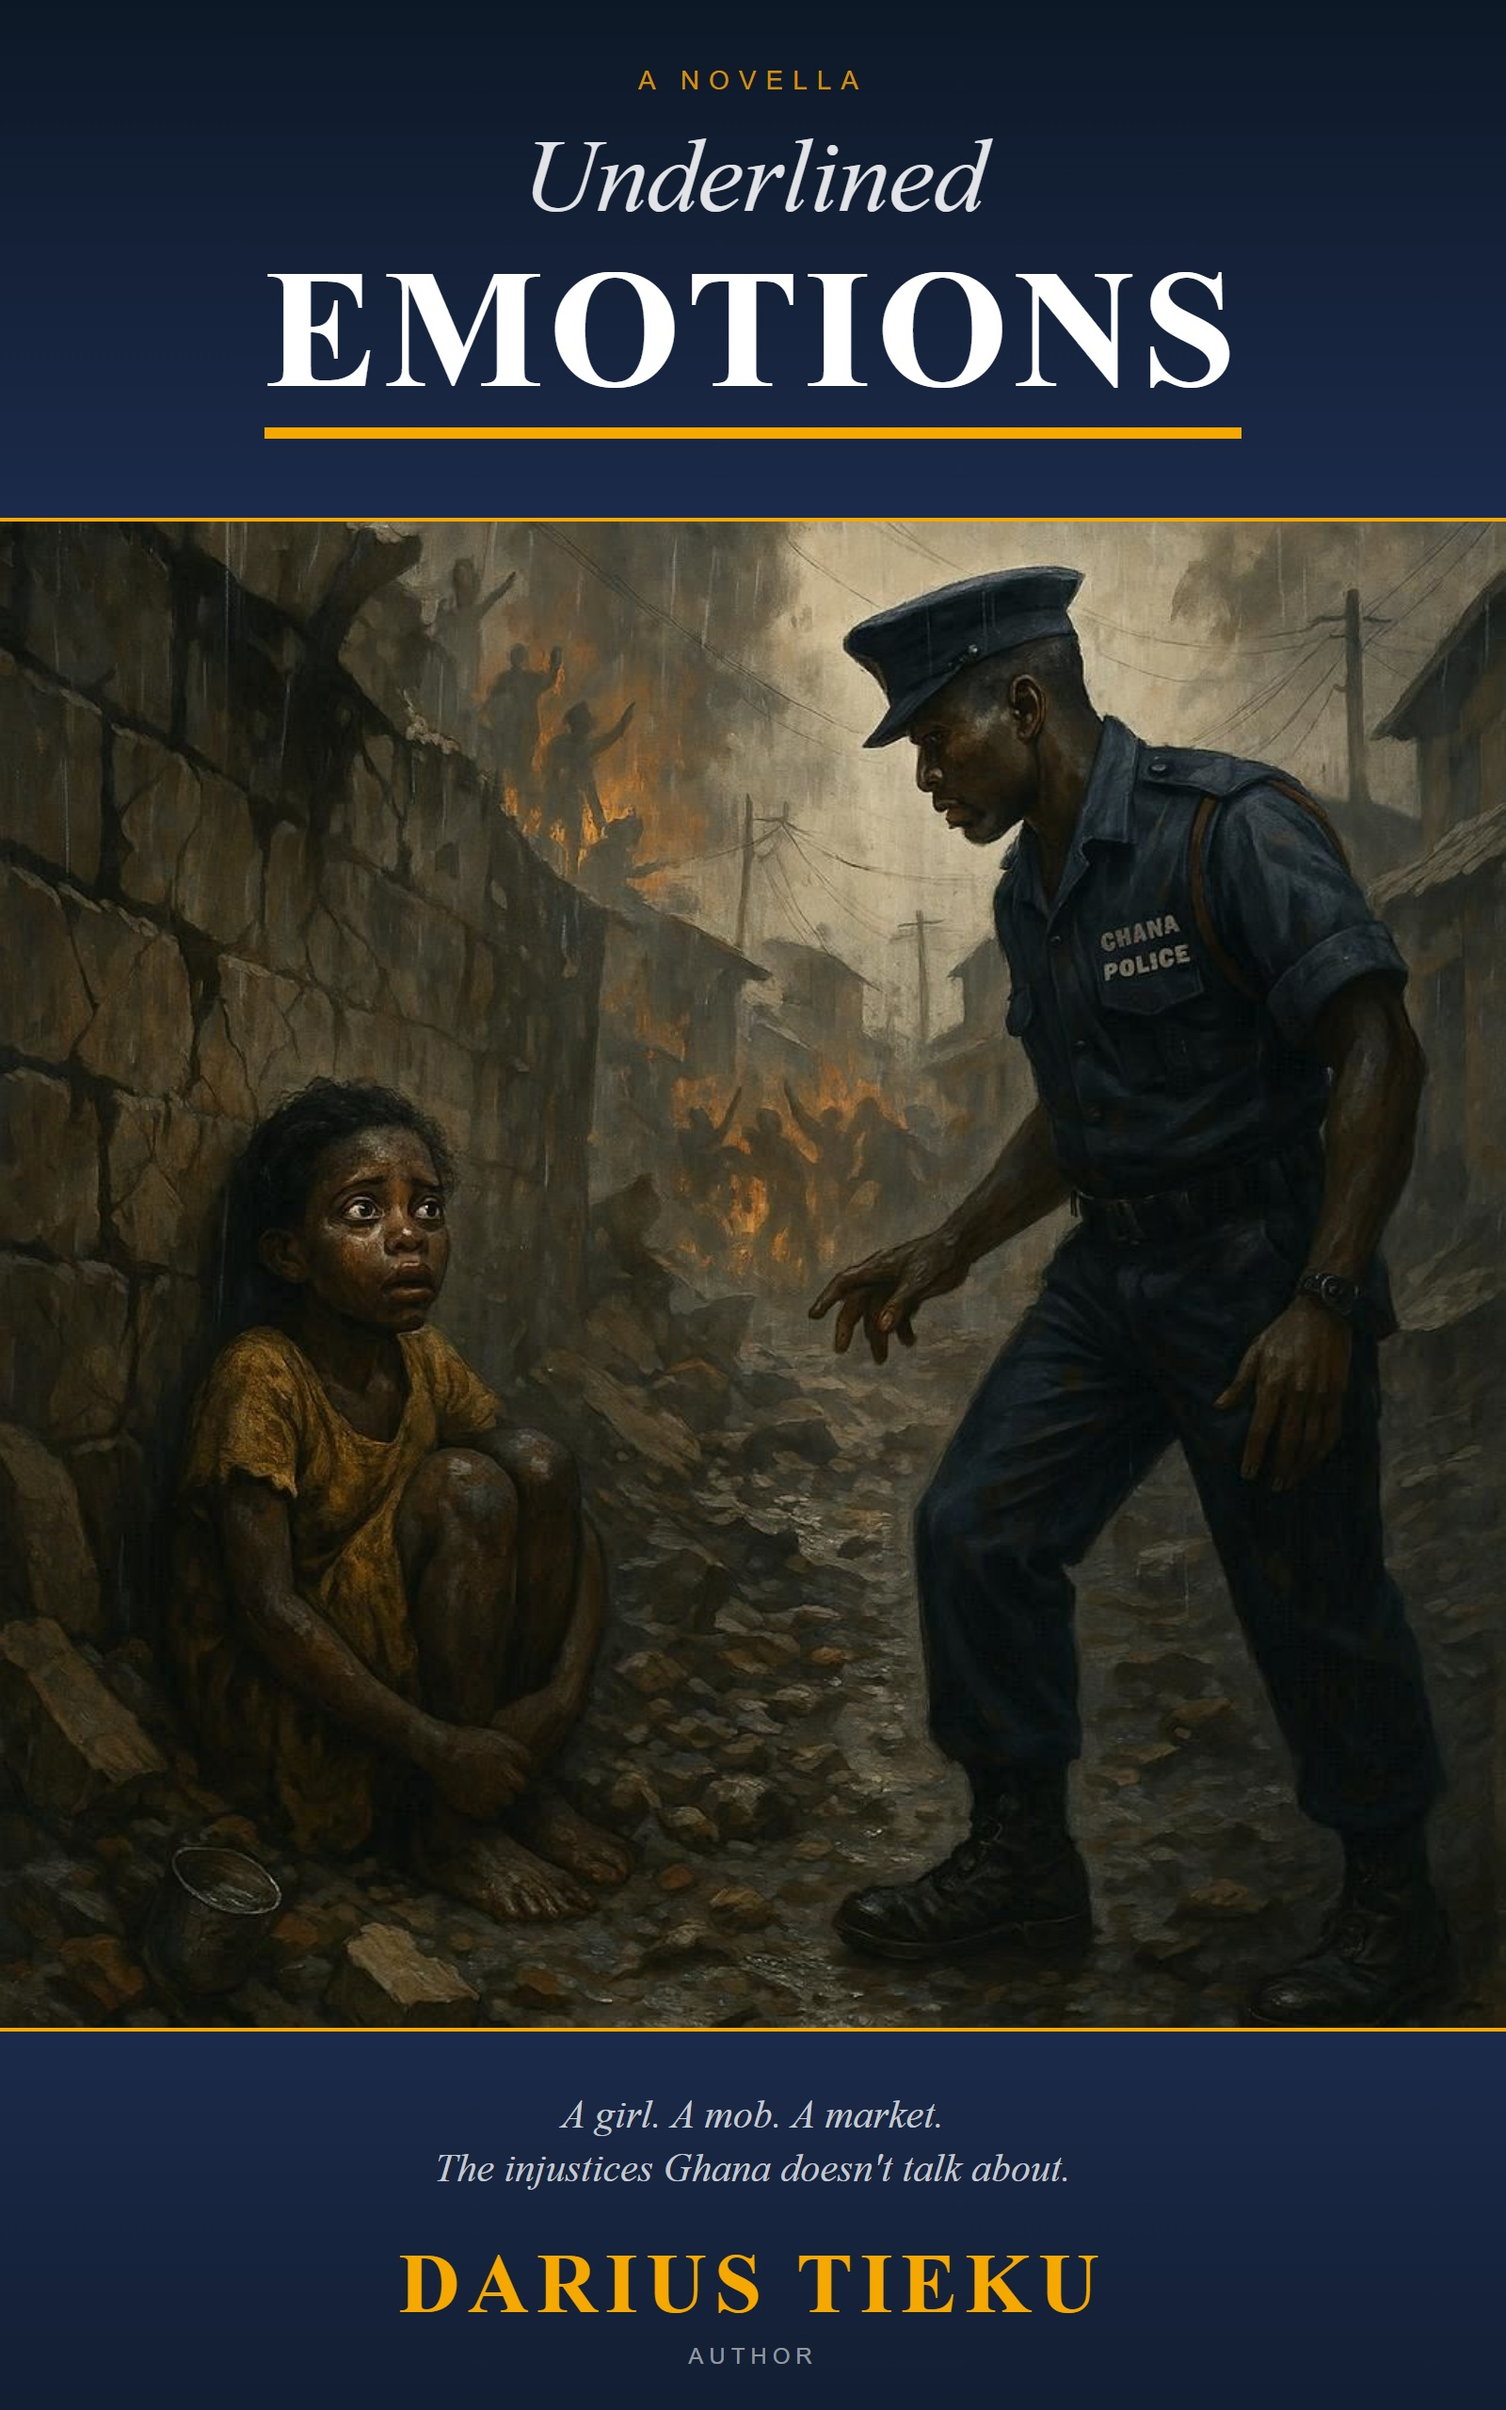
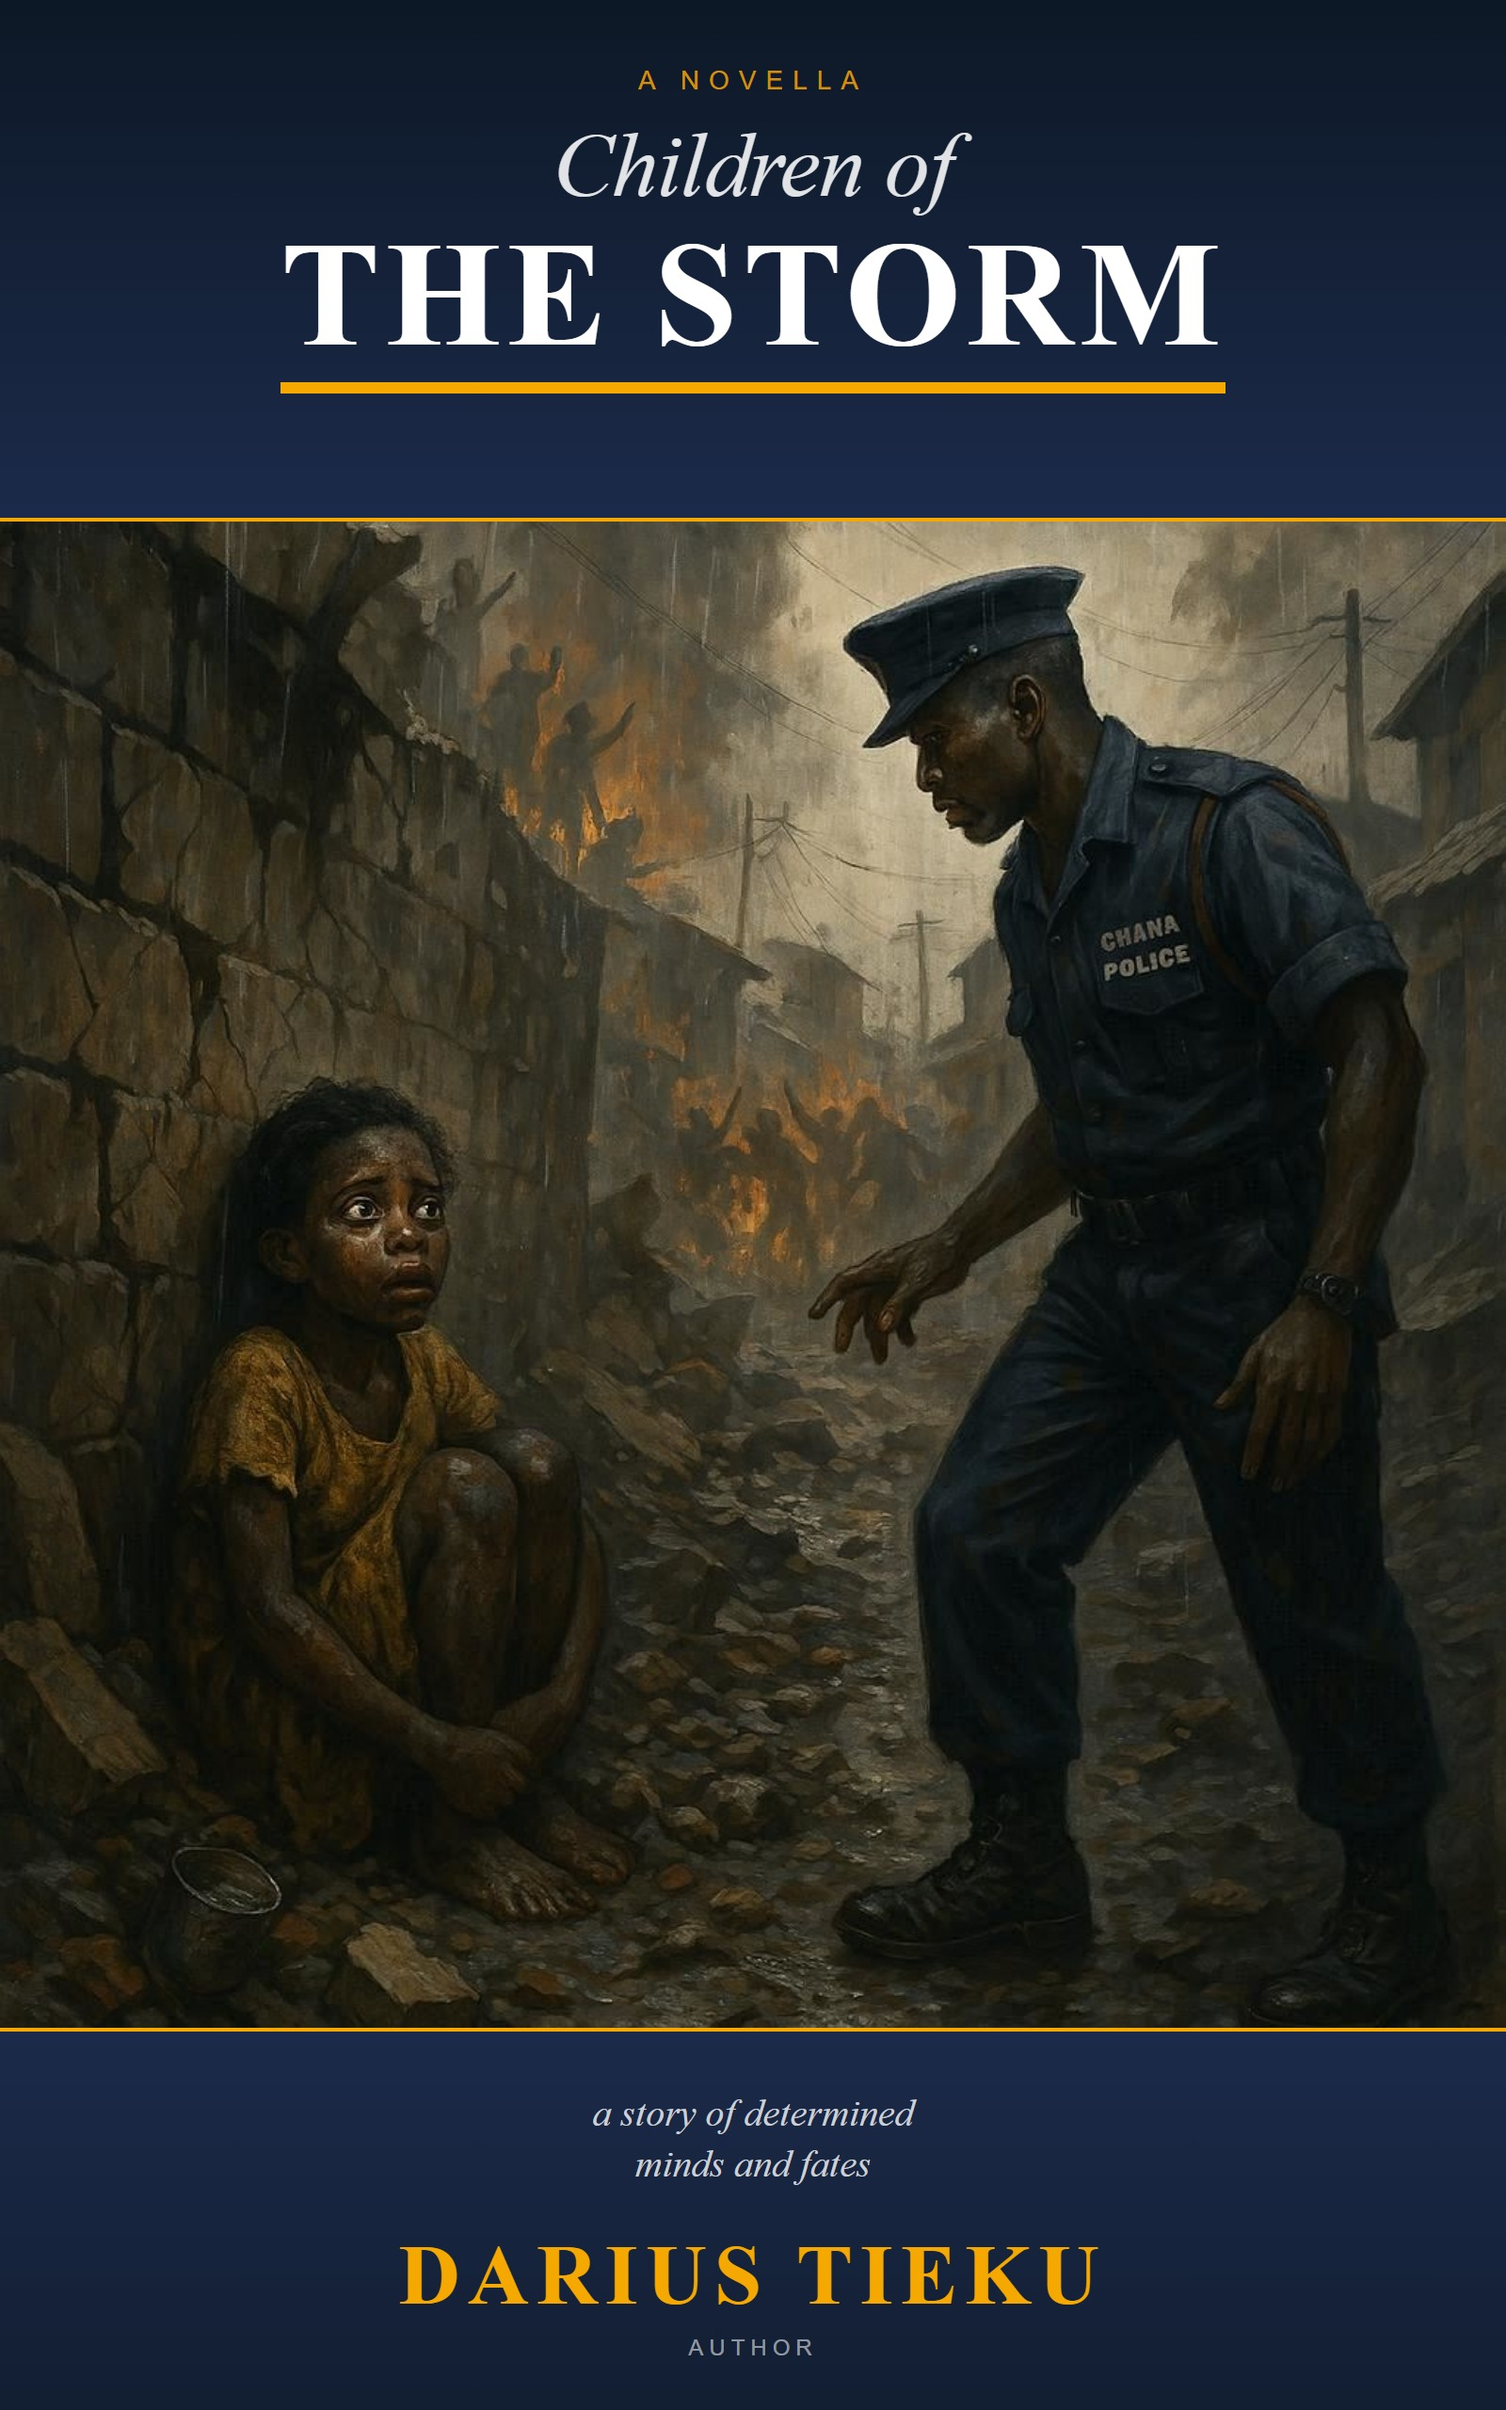
Retitle book: Children of the Storm — a story of determined minds and fates
- Cover re-rendered with new title typography (1600x2560)
- Hero h1 updated, subtitle line added below title
- og:title + page <title> updated
- About-author paragraph references new title
- cover-final.jpg replaced with new render

diff --git a/book/index.html b/book/index.html
@@ -3,13 +3,13 @@
 <head>
 <meta charset="utf-8" />
 <meta name="viewport" content="width=device-width, initial-scale=1.0" />
-<title>Underlined Emotions — a novella by Darius Tieku</title>
+<title>Children of the Storm — a novella by Darius Tieku</title>
 <meta name="description" content="A 13-year-old girl. A mob. A market. The injustices Ghana doesn't talk about. A debut novella from the streets of Kejetia by Darius Tieku." />
 <meta name="theme-color" content="#0D1826" />
 
 <!-- Open Graph -->
 <meta property="og:type" content="book" />
-<meta property="og:title" content="Underlined Emotions — a novella by Darius Tieku" />
+<meta property="og:title" content="Children of the Storm — a novella by Darius Tieku" />
 <meta property="og:description" content="From the dirt of Kejetia to the bench of justice — one girl's impossible survival through Ghana's most invisible cruelties." />
 <meta property="og:image" content="https://dariustieku12-pixel.github.io/Sonka-website/book/assets/cover-final.jpg" />
 <meta property="og:url" content="https://dariustieku12-pixel.github.io/Sonka-website/book/" />
@@ -87,6 +87,14 @@
     margin-bottom: 8px;
   }
   .hero-text h1 .italic { font-style: italic; color: rgba(255,255,255,.85); font-weight: 400; font-size: .7em; display: block; margin-bottom: 4px; }
+  .hero-text .subtitle {
+    font-family: 'Playfair Display', serif;
+    font-style: italic;
+    color: rgba(255,255,255,.7);
+    font-size: clamp(16px, 1.6vw, 20px);
+    margin-bottom: 18px;
+    letter-spacing: .5px;
+  }
   .hero-text .author { color: rgba(255,255,255,.6); font-size: 16px; letter-spacing: 4px; text-transform: uppercase; margin-bottom: 24px; }
   .hero-text .tagline {
     font-family: 'Playfair Display', serif;
@@ -271,13 +279,14 @@
 <!-- ── HERO ─────────────────────────────────────────────── -->
 <section class="hero">
   <div class="hero-grid">
-    <img class="cover-img" src="assets/cover-final.jpg" alt="Underlined Emotions cover">
+    <img class="cover-img" src="assets/cover-final.jpg" alt="Children of the Storm cover">
     <div class="hero-text">
       <span class="tag">🇬🇭 A debut novella from Ghana</span>
       <h1>
-        <span class="italic">Underlined</span>
-        EMOTIONS
+        <span class="italic">Children of</span>
+        THE STORM
       </h1>
+      <div class="subtitle">a story of determined minds and fates</div>
       <div class="author">By Darius Tieku</div>
       <p class="tagline">A girl. A mob. A market.<br>The injustices Ghana doesn't talk about.</p>
       <div class="buy-row" id="buy">
@@ -340,7 +349,7 @@
     <div>
       <h2>About the Author</h2>
       <p><strong style="color:#fff">Darius Tieku</strong> is a Ghanaian author and structural engineer based in Accra. He is the founder of SONKA, Ghana's first cargo marketplace, and the publisher behind Tele-Port Prime Ghana Ltd.</p>
-      <p><em>Underlined Emotions</em> is his debut novella — written in 2020 after years of watching the unsaid weight of Ghana's invisible children on the streets of Kumasi and Accra.</p>
+      <p><em>Children of the Storm</em> is his debut novella — written in 2020 after years of watching the unsaid weight of Ghana's invisible children on the streets of Kumasi and Accra.</p>
       <p>He writes about the things newspapers print and forget.</p>
     </div>
   </div>
